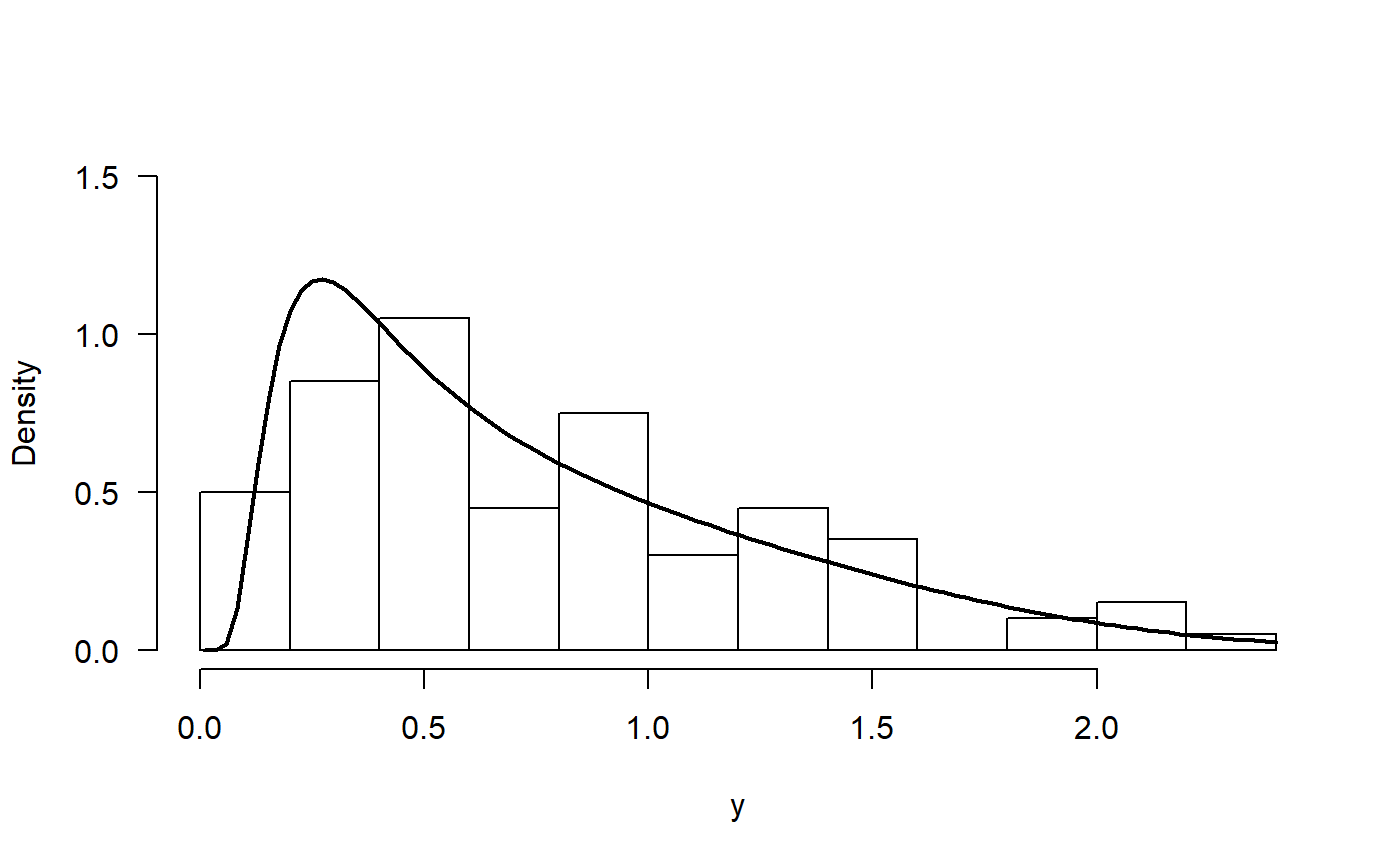
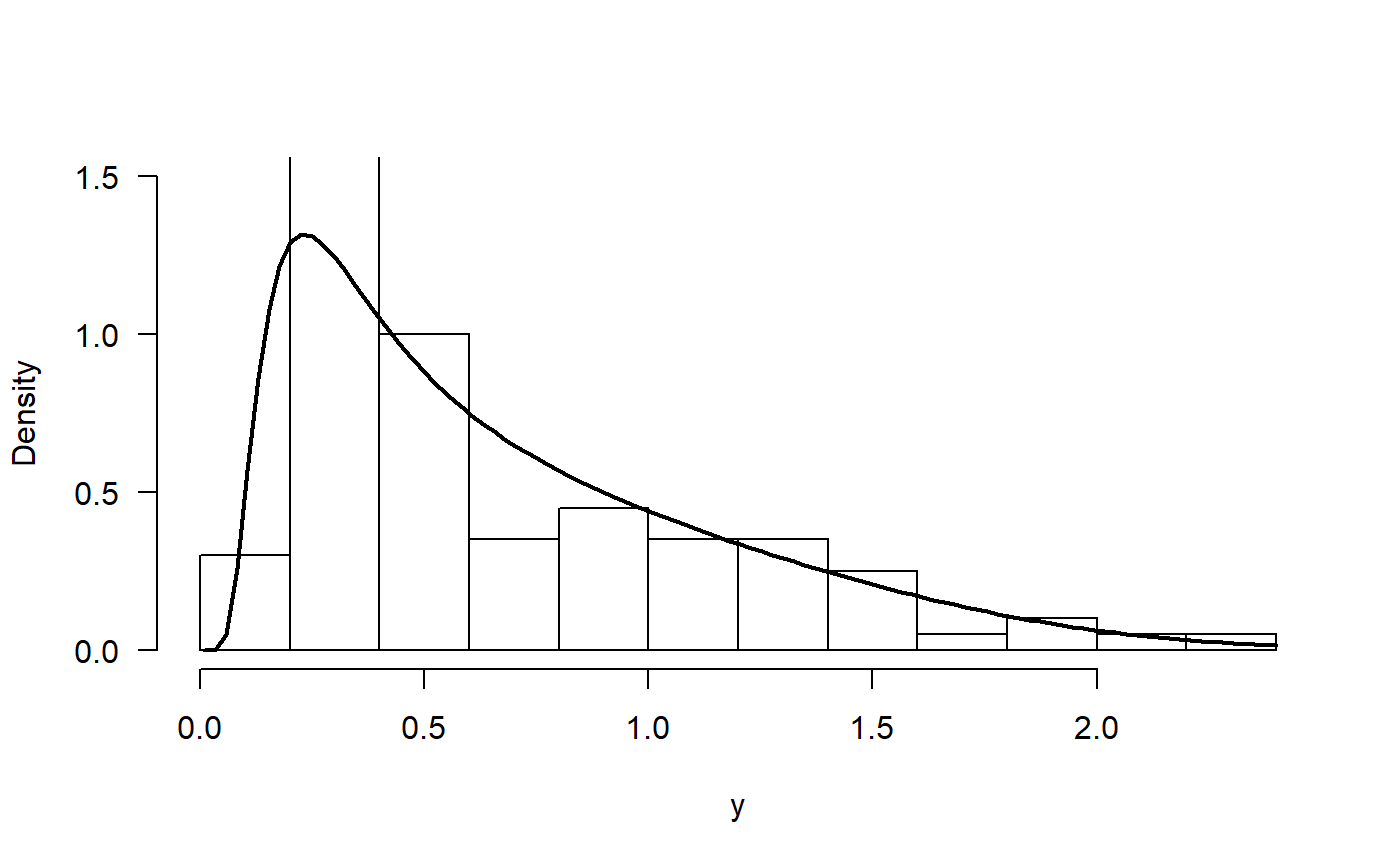
se arreglaron detalles menores :smile:

diff --git a/docs/articles/EW_distribution.html b/docs/articles/EW_distribution.html
@@ -91,7 +91,7 @@
 <h2 class="hasAnchor">
 <a href="#exponentiated-weibull-distribution" class="anchor"></a>Exponentiated Weibull distribution</h2>
 <p>In this vignette we explore the Exponentiated Weibull distribution.</p>
-<p>The distribution was proposed by Mudholkar and Srivastava (1993) but in this document we used the parameterization given by Almalki and Nadarajah (2014).</p>
+<p>The distribution was proposed by Mudholkar and Srivastava (1993) but here we used the parameterization given by Almalki and Nadarajah (2014).</p>
 <div id="probability-density-function" class="section level3">
 <h3 class="hasAnchor">
 <a href="#probability-density-function" class="anchor"></a>Probability density function</h3>
@@ -200,13 +200,13 @@ mod &lt;-<span class="st"> </span><span class="kw">gamlss</span>(y<span class="o
 <p>To obtain the fitted values for <span class="math inline">\(\mu\)</span>, <span class="math inline">\(\sigma\)</span> and <span class="math inline">\(\nu\)</span> we use the inverse link function <span class="math inline">\(\log()\)</span>.</p>
 <div class="sourceCode"><pre class="sourceCode r"><code class="sourceCode r"><span class="kw">exp</span>(<span class="kw">coef</span>(mod, <span class="dt">what=</span><span class="st">'mu'</span>))
 ## (Intercept) 
-##    5.115247
+##    5.109745
 <span class="kw">exp</span>(<span class="kw">coef</span>(mod, <span class="dt">what=</span><span class="st">'sigma'</span>))
 ## (Intercept) 
-##   0.4287514
+##   0.5128907
 <span class="kw">exp</span>(<span class="kw">coef</span>(mod, <span class="dt">what=</span><span class="st">'nu'</span>))
 ## (Intercept) 
-##    14.47181</code></pre></div>
+##    10.38228</code></pre></div>
 <p>The results show that estimated parameters are close to the true parameters <span class="math inline">\(\mu\)</span>, <span class="math inline">\(\sigma\)</span> and <span class="math inline">\(\nu\)</span>.</p>
 <p>In the next figure we have the histogram for the data and the fitted density. We note that the fitted density explains better the observed data.</p>
 <div class="sourceCode"><pre class="sourceCode r"><code class="sourceCode r"><span class="kw">hist</span>(y, <span class="dt">freq=</span><span class="ot">FALSE</span>, <span class="dt">main=</span><span class="st">''</span>, <span class="dt">ylim=</span><span class="kw">c</span>(<span class="dv">0</span>, <span class="fl">1.8</span>))
@@ -291,13 +291,13 @@ y &lt;-<span class="st"> </span><span class="kw"><a href="../reference/dEW.html"
 <p>and the results can be found with</p>
 <div class="sourceCode"><pre class="sourceCode r"><code class="sourceCode r"><span class="kw">coef</span>(mod, <span class="dt">what=</span><span class="st">"mu"</span>)
 ## (Intercept)          x1 
-##    2.006249   -3.017142
+##    1.932592   -2.024837
 <span class="kw">coef</span>(mod, <span class="dt">what=</span><span class="st">"sigma"</span>)
 ## (Intercept)          x2 
-##    2.995257   -1.986049
+##    2.600716   -1.995025
 <span class="kw">coef</span>(mod, <span class="dt">what=</span><span class="st">"nu"</span>)
 ## (Intercept) 
-##   0.7248023</code></pre></div>
+##    1.511286</code></pre></div>
 <p>We note that the estimated parameters are close to the true parameter vector <span class="math inline">\(\boldsymbol{\theta} = (2, -3, 3, -2, 2)^\top\)</span>.</p>
 </div>
   </div>

diff --git a/docs/articles/FWE_distribution.html b/docs/articles/FWE_distribution.html
@@ -152,10 +152,10 @@ mod &lt;-<span class="st"> </span><span class="kw">gamlss</span>(y<span class="o
 <p>To obtain the fitted values for <span class="math inline">\(\mu\)</span> and <span class="math inline">\(\sigma\)</span> we use the inverse link function <span class="math inline">\(\log()\)</span>.</p>
 <div class="sourceCode"><pre class="sourceCode r"><code class="sourceCode r"><span class="kw">exp</span>(<span class="kw">coef</span>(mod, <span class="dt">what=</span><span class="st">'mu'</span>))
 ## (Intercept) 
-##   0.7811862
+##   0.8250808
 <span class="kw">exp</span>(<span class="kw">coef</span>(mod, <span class="dt">what=</span><span class="st">'sigma'</span>))
 ## (Intercept) 
-##   0.5292902</code></pre></div>
+##   0.4625957</code></pre></div>
 <p>The results show that estimated parameters are close to the true parameters <span class="math inline">\(\mu\)</span> and <span class="math inline">\(\sigma\)</span>.</p>
 <p>In the next figure we have the histogram for the data and the fitted density. We note that the fitted density explains better the observed data.</p>
 <div class="sourceCode"><pre class="sourceCode r"><code class="sourceCode r"><span class="kw">hist</span>(y, <span class="dt">freq=</span><span class="ot">FALSE</span>, <span class="dt">breaks=</span><span class="dv">10</span>, <span class="dt">ylim=</span><span class="kw">c</span>(<span class="dv">0</span>, <span class="fl">1.5</span>), <span class="dt">las=</span><span class="dv">1</span>, <span class="dt">main=</span><span class="st">''</span>)
@@ -188,10 +188,10 @@ y &lt;-<span class="st"> </span><span class="kw"><a href="../reference/dFWE.html
 <p>and the results can be found with</p>
 <div class="sourceCode"><pre class="sourceCode r"><code class="sourceCode r"><span class="kw">coef</span>(mod, <span class="dt">what=</span><span class="st">"mu"</span>)
 ## (Intercept)          x1 
-##    1.269556   -3.063113
+##    1.113205   -2.952988
 <span class="kw">coef</span>(mod, <span class="dt">what=</span><span class="st">"sigma"</span>)
 ## (Intercept)          x2 
-##    1.253663   -2.009093</code></pre></div>
+##    1.097220   -1.810511</code></pre></div>
 <p>We note that the estimated parameters are close to the true parameter vector <span class="math inline">\(\boldsymbol{\theta} = (1.21, -3, 1.26, -2)^\top\)</span>.</p>
 </div>
   </div>
